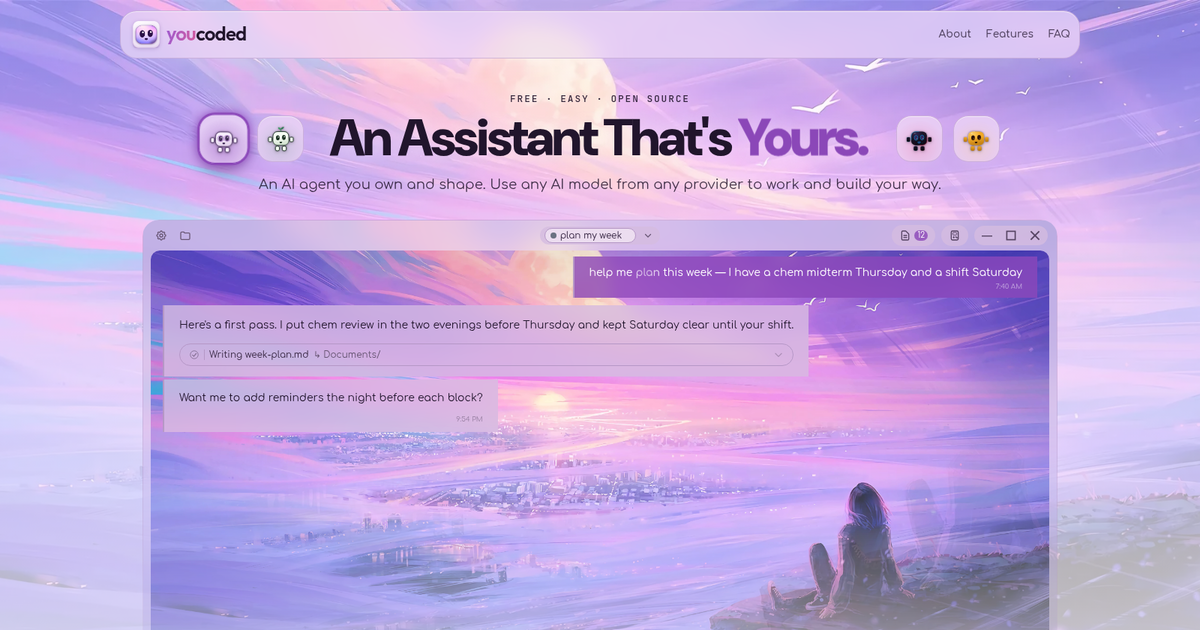
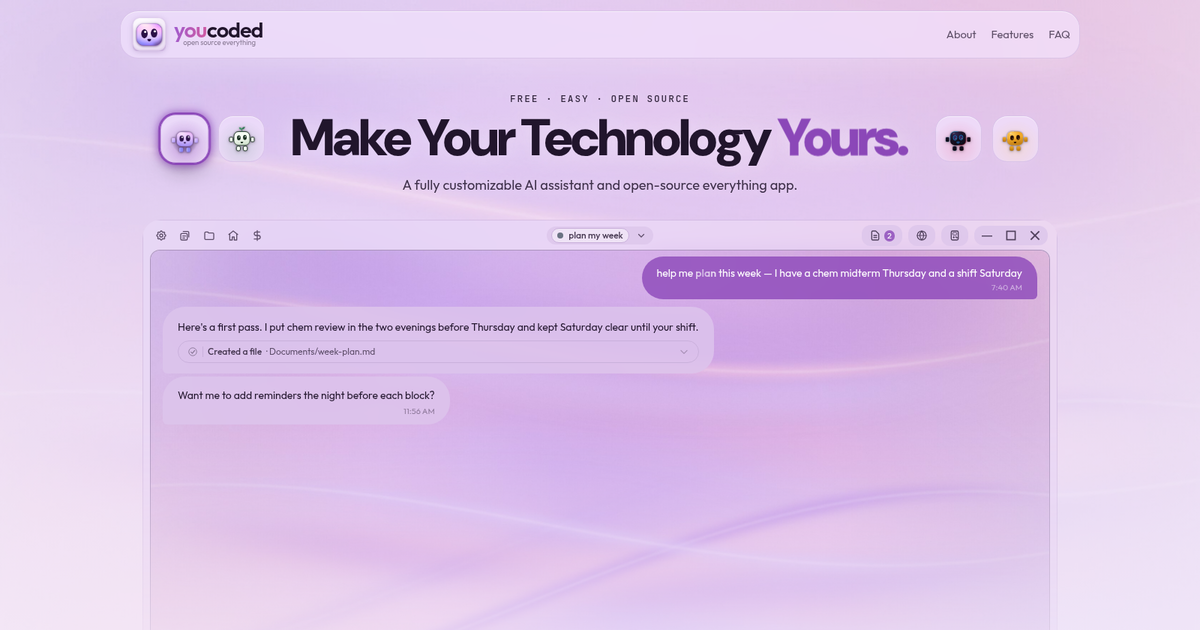
site: search and AI discovery basics; share card matches today's page
- Tab title adds "AI assistant" to the tagline; description, share title and
  share text follow the hero ("Make your technology useful, fun, yours.")
- Machine-readable app label (free, MIT, Windows/macOS/Linux/Android) and a
  canonical address
- robots.txt (all crawlers welcome, the demo frame kept out of results),
  sitemap.xml, and llms.txt: a plain summary written for AI assistants
- og-image.png re-shot from the current hero (was the old "An Assistant
  That's Yours." headline); cache-bust v=7

diff --git a/docs/index.html b/docs/index.html
@@ -4,8 +4,15 @@
 <meta charset="UTF-8">
 <meta name="viewport" content="width=device-width, initial-scale=1.0">
 <!-- Lowercase "youcoded", as in the logo (Destin, brand-website-v1 TAB note); the wording, the logo's own tagline, was picked in brand-website-v2 (TITLE b). -->
-<title>youcoded — open source everything</title>
-<meta name="description" content="One app for Claude, hundreds of cloud models, or one that runs free on your own computer — working in your files, on every device you own. Windows, macOS, Linux, Android.">
+<!-- WHY "AI assistant" joined the tagline (2026-10-22, search discovery): the tab
+     title is also the headline of a Google result and what an AI search tool
+     quotes first. "open source everything" alone never said what kind of thing
+     YouCoded is, so it matched no search a newcomer would type. The lowercase
+     brand and Destin's tagline stay; the description below follows the hero's
+     own subtitle so search results, share cards and the page say one thing. -->
+<title>youcoded — the AI assistant and open source everything app</title>
+<meta name="description" content="A fully customizable AI assistant and open-source everything app. Ask for new features, pages or a whole new look, on any AI model — even free, offline ones.">
+<link rel="canonical" href="https://youcoded.ai/">
 <!-- Social preview. og-image.png is a PHOTOGRAPH OF THIS PAGE, rebuilt by
      docs/tools/gen-og-image.mjs — regenerate it whenever the hero changes.
      It used to be a dark screenshot of the app from before the redesign, so
@@ -13,26 +20,59 @@
      it opened (reported 2026-09-04). The favicon is the app icon (docs/brand/,
      brand identity 2026-10-04) so a tab, the header and the installed app
      read as one product; applyTheme() swaps it to the theme the visitor picks. -->
-<meta property="og:title" content="YouCoded — Agentic AI for Everyone">
-<meta property="og:description" content="One app for Claude, hundreds of cloud models, or one that runs free on your own computer — working in your files, on every device you own. Windows, macOS, Linux, Android.">
+<meta property="og:title" content="YouCoded — Make your technology useful, fun, yours.">
+<meta property="og:description" content="A fully customizable AI assistant and open-source everything app. Ask it for new features, pages, games or a whole new look, on any AI model — including free ones on your own computer. Windows, macOS, Linux and Android.">
 <meta property="og:type" content="website">
 <meta property="og:url" content="https://youcoded.ai/">
 <!-- ?v=2 is a CACHE BUST, not decoration. Slack, iMessage, Discord, Facebook
      and Twitter all cache a preview image BY URL, for days, and a link Destin
      had already shared kept showing the old picture after the file was
      replaced. Bump the number whenever og-image.png is regenerated. -->
-<meta property="og:image" content="https://youcoded.ai/og-image.png?v=6">
+<meta property="og:image" content="https://youcoded.ai/og-image.png?v=7">
 <meta property="og:image:width" content="1200">
 <meta property="og:image:height" content="630">
-<meta property="og:image:alt" content="The YouCoded website: the headline &quot;An Assistant That's Yours.&quot; between four theme mascots, above the app running a real conversation.">
+<meta property="og:image:alt" content="The YouCoded website: the headline &quot;Make Your Technology Yours.&quot; between four theme mascots, above the app helping plan a week.">
 <meta property="og:site_name" content="YouCoded">
 <meta name="twitter:card" content="summary_large_image">
-<meta name="twitter:title" content="YouCoded — Agentic AI for Everyone">
-<meta name="twitter:description" content="One app for Claude, hundreds of cloud models, or one that runs free on your own computer — working in your files, on every device you own. Windows, macOS, Linux, Android.">
-<meta name="twitter:image" content="https://youcoded.ai/og-image.png?v=6">
-<meta name="twitter:image:alt" content="The YouCoded website: the headline &quot;An Assistant That's Yours.&quot; between four theme mascots, above the app running a real conversation.">
+<meta name="twitter:title" content="YouCoded — Make your technology useful, fun, yours.">
+<meta name="twitter:description" content="A fully customizable AI assistant and open-source everything app. Ask it for new features, pages, games or a whole new look, on any AI model — including free ones on your own computer. Windows, macOS, Linux and Android.">
+<meta name="twitter:image" content="https://youcoded.ai/og-image.png?v=7">
+<meta name="twitter:image:alt" content="The YouCoded website: the headline &quot;Make Your Technology Yours.&quot; between four theme mascots, above the app helping plan a week.">
 <link rel="icon" type="image/png" sizes="32x32" href="brand/default-32.png" id="favicon">
 <link rel="apple-touch-icon" href="brand/apple-touch-icon.png">
+<!-- WHY (2026-10-22, search discovery): a machine-readable label Google, Bing and
+     AI search tools read to know this page is a free app, which systems it runs
+     on and what the site is called ("YouCoded", not "youcoded.ai", in results).
+     Deliberately no version number and no FAQ copy here: both change often and a
+     stale copy hidden in the page would contradict the visible one. -->
+<script type="application/ld+json">
+{
+  "@context": "https://schema.org",
+  "@graph": [
+    {
+      "@type": "WebSite",
+      "name": "YouCoded",
+      "alternateName": "youcoded",
+      "url": "https://youcoded.ai/"
+    },
+    {
+      "@type": "SoftwareApplication",
+      "name": "YouCoded",
+      "url": "https://youcoded.ai/",
+      "description": "A fully customizable AI assistant and open-source everything app. Ask it for new features, pages, games or a whole new look, on whichever AI model you choose: Claude, ChatGPT, hundreds of models through OpenRouter, or a free model running on your own computer.",
+      "applicationCategory": "UtilitiesApplication",
+      "operatingSystem": "Windows, macOS, Linux, Android",
+      "downloadUrl": "https://github.com/itsdestin/youcoded/releases/latest",
+      "image": "https://youcoded.ai/og-image.png",
+      "license": "https://opensource.org/licenses/MIT",
+      "isAccessibleForFree": true,
+      "offers": { "@type": "Offer", "price": "0", "priceCurrency": "USD" },
+      "author": { "@type": "Person", "name": "Destin", "url": "https://github.com/itsdestin" },
+      "sameAs": ["https://github.com/itsdestin/youcoded"]
+    }
+  ]
+}
+</script>
 <link rel="preconnect" href="https://fonts.googleapis.com">
 <link rel="preconnect" href="https://fonts.gstatic.com" crossorigin>
 <link href="https://fonts.googleapis.com/css2?family=Outfit:wght@400;600&family=DM+Sans:ital,opsz,wght@0,9..40,400;0,9..40,500;0,9..40,700;0,9..40,800;0,9..40,900;1,9..40,400;1,9..40,900&family=JetBrains+Mono:wght@400;500&display=swap" rel="stylesheet">
